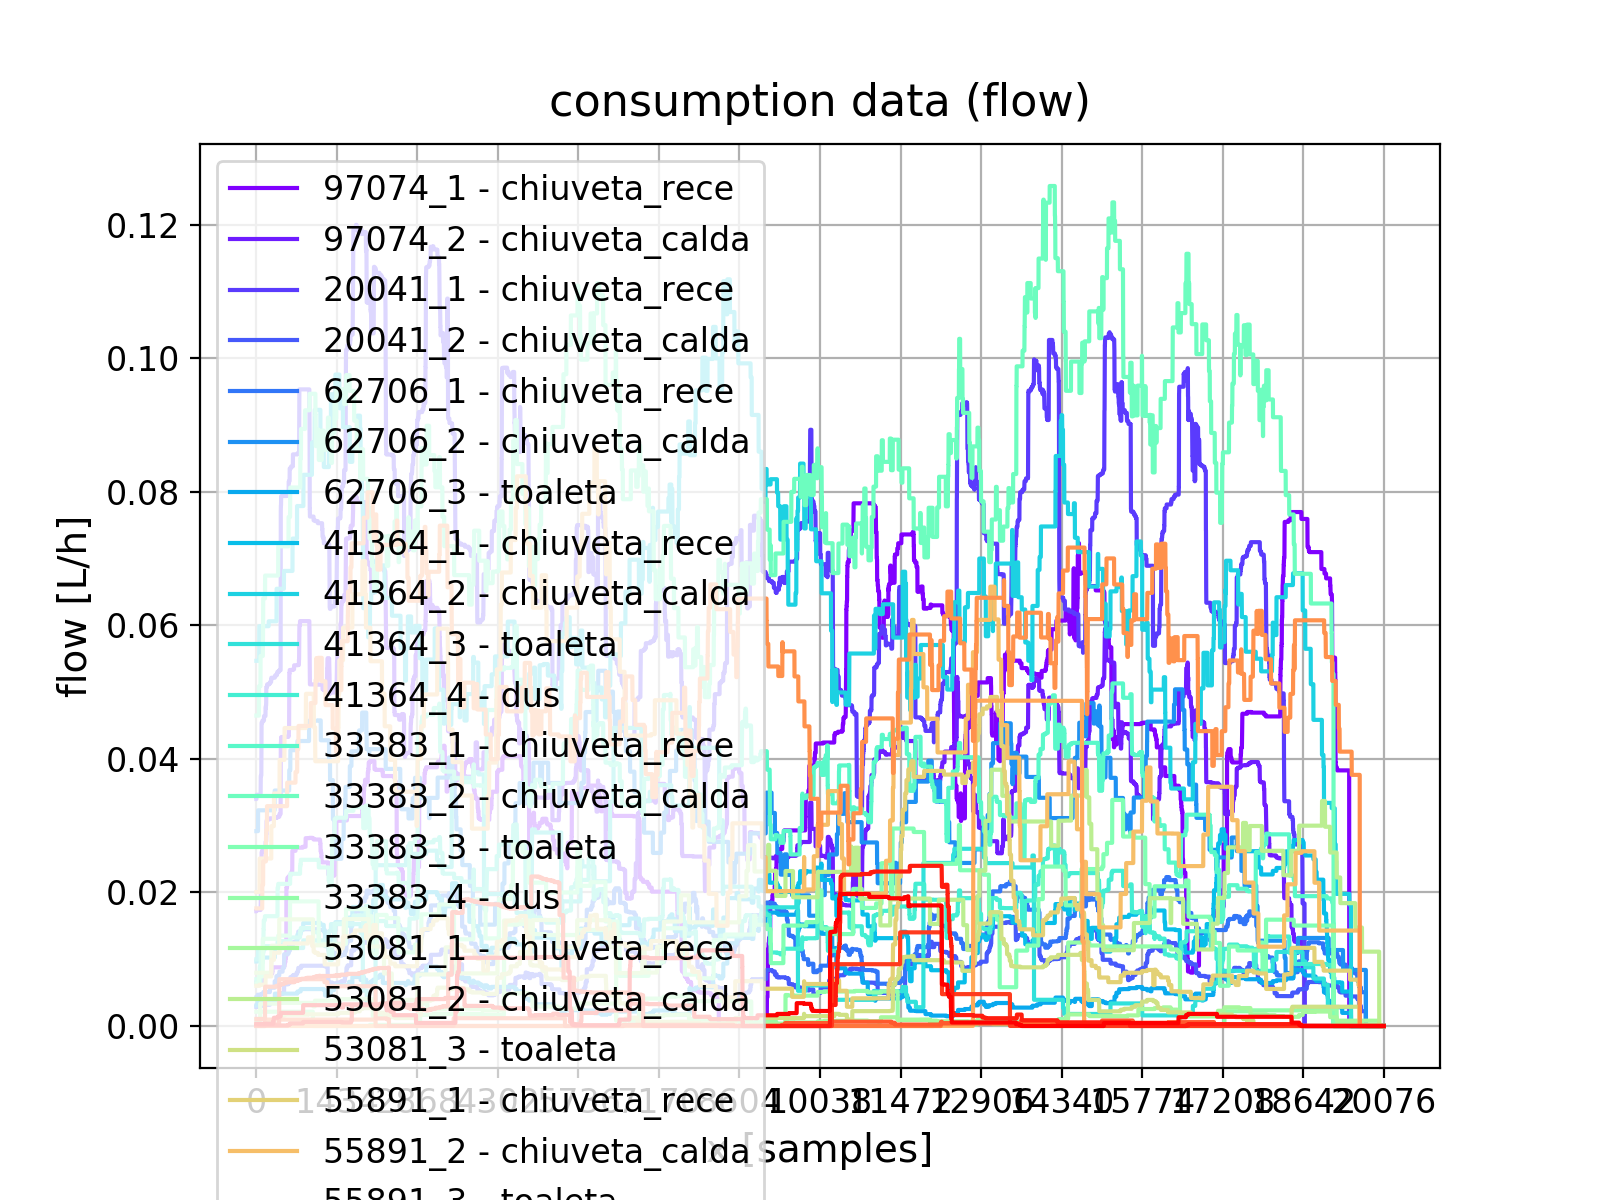
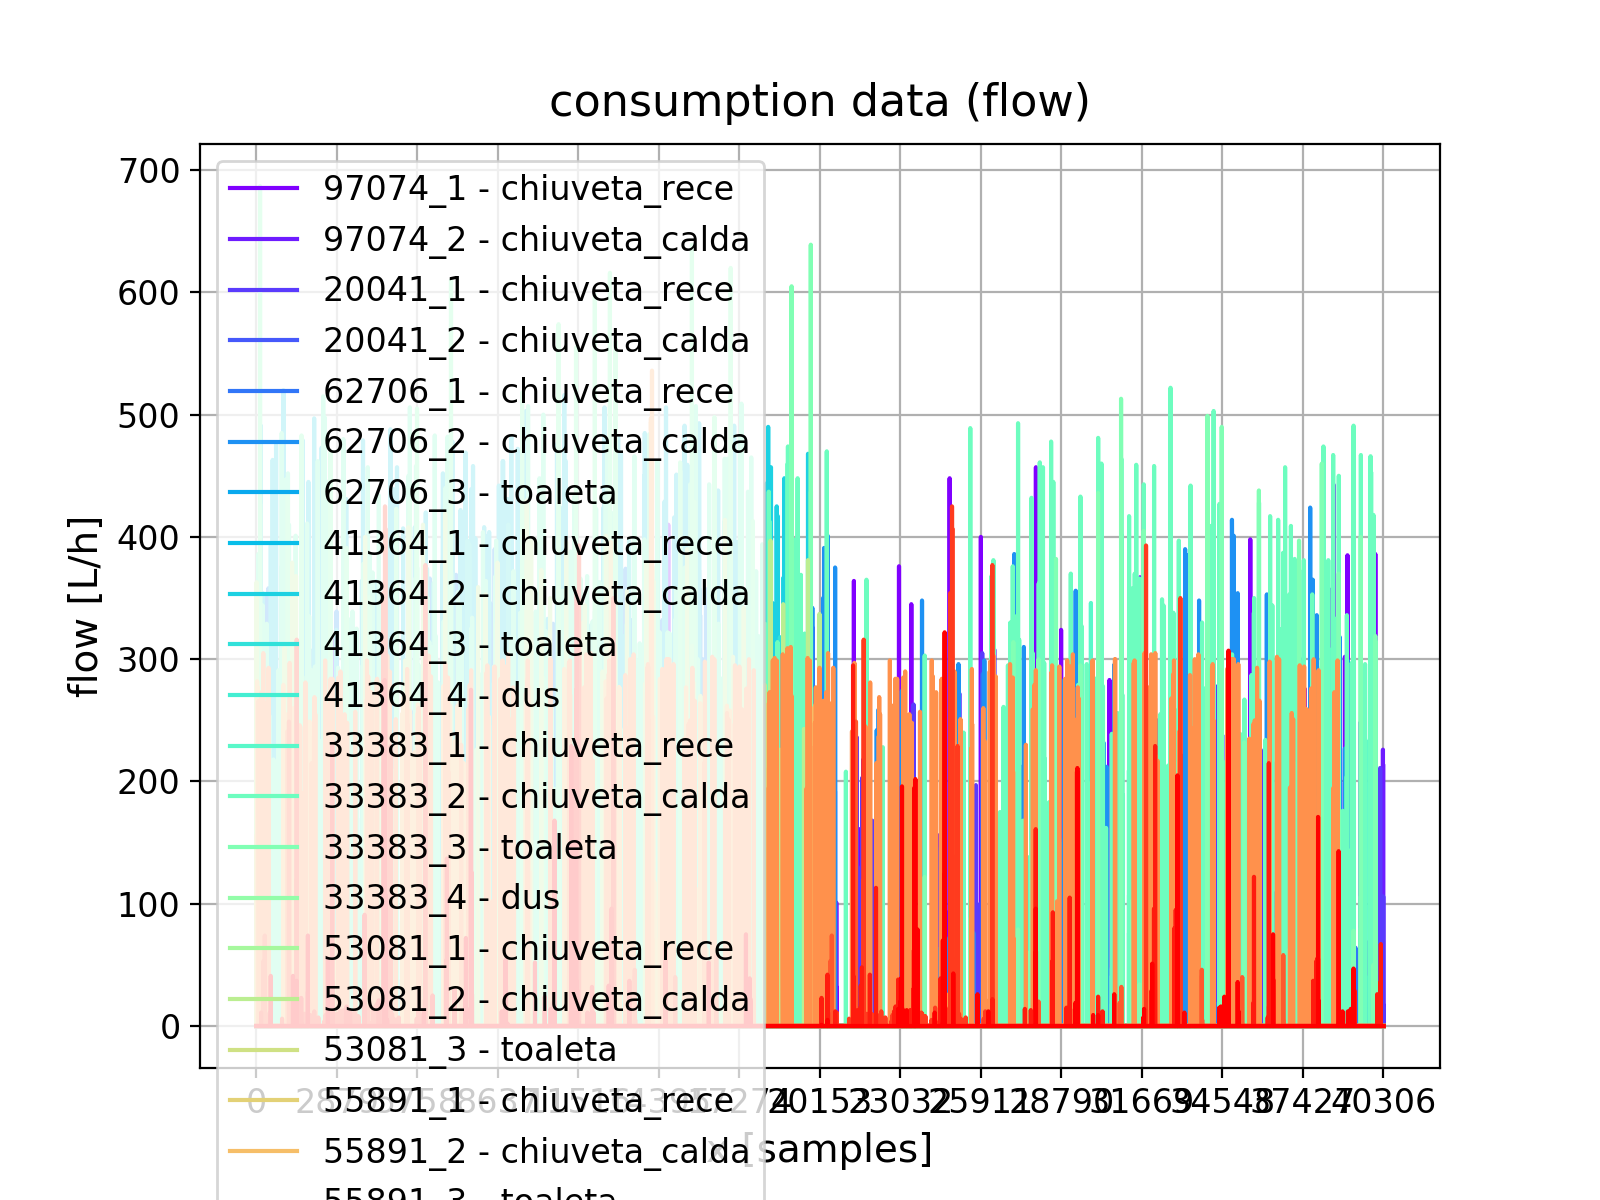
evaluate daily consumption events

diff --git a/clustering_wg/show_cluster_daily_events.py b/clustering_wg/show_cluster_daily_events.py
@@ -6,6 +6,7 @@ from modules import loader, graph
 from modules import clustering
 from modules import utils
 import numpy as np
+import statistics
 
 
 def run_clustering(x, nc, xheader, xlabels=None):
@@ -42,17 +43,8 @@ def run_clustering(x, nc, xheader, xlabels=None):
             x, nc, True)
         # X, kmeans, centroids, avg_dist, sum_dist, average_euclid_dist_mean = clustering.clustering_birch(x, nc, True)
 
-    # print(avg_dist)
-    # print(sum_dist)
-    # print(average_euclid_dist_mean)
-
     print("silhouette score: ", silhouette_score)
-
-    # quit()
-
-    # quit()
     xc = np.transpose(centroids)
-    # xc = np.transpose(xc)
 
     if xlabels is not None:
         xlabels = np.array(xlabels)
@@ -64,7 +56,7 @@ def run_clustering(x, nc, xheader, xlabels=None):
     return tss, nc
 
 
-nc = 3
+nc = 1
 
 root_data_folder = "./data"
 # read the data from the csv file
@@ -78,33 +70,39 @@ if rolling_filter:
 result_name += ".csv"
 
 plot_all_data = True
-# plot_all_data = False
+plot_all_data = False
 
 rolling_filter = True
 rolling_filter = False
 
-start_index = 1
+start_index = 0
 # end_index = 100
-end_index = None
+end_index = 20160  # 2 weeks in minutes
 start_col = 3
 end_col = None
 fill_start = False
+n_days = 14
 
 filter_labels = []
-filter_labels = ["toaleta", "chiuveta_rece", "chiuveta_calda", "dus"]
+# filter_labels = ["toaleta", "chiuveta_rece", "chiuveta_calda", "dus"]
 # filter_labels = ["toaleta"]
+filter_uid = ["41364_1", "41364_2", "41364_3", "41364_4"]
+# filter_uid = []
 
 x, header = loader.load_dataset(result_name)
-
 df = loader.load_dataset_pd(result_name)
 
 if len(filter_labels) > 0:
     boolean_series = df['label'].isin(filter_labels)
     df = df[boolean_series]
-    # df = df[df['label'] == filter_labels]
+if len(filter_uid) > 0:
+    boolean_series = df['uid'].isin(filter_uid)
+    df = df[boolean_series]
 
 x = df.to_numpy()
 print(x)
+
+# quit()
 
 nheader = len(header)
 
@@ -112,14 +110,11 @@ sx = np.shape(x)
 
 print(sx)
 
-# quit()
 print(nheader)
 header = []
 for d in range(sx[0]):
-    # header.append(str(d+1))
     header.append(x[d, 0] + " - " + x[d, 1])
 print(header)
-# quit()
 
 if fill_start:
     x = x[start_index:, :]
@@ -133,6 +128,16 @@ if end_col is not None:
     x = x[:, :end_col]
 
 
+for consumer in range(sx[0]):
+    stdev = statistics.stdev(x[:, consumer])
+    print("stdev ", consumer, " = ", stdev)
+# quit()
+
+x_split = np.split(x, n_days)
+
+# print(x_split)
+
+
 xlabel = "flow [L/h]"
 xtype = "flow"
 title = "consumption data (flow)"
@@ -142,59 +147,75 @@ print(sx)
 
 print("start")
 
-
 # time axis labels
 xlabels = [str(i) for i in range(sx[0])]
-# xlabels_disp = [str(i%1440) for i in range(sx[0])]
 xlabels_disp = xlabels
-# xlabels = [str(i) for i in range(len(timestamps))]
-# xlabels = timestamps
-# xlabels = [np.datetime64(ts) for ts in timestamps]
 
-# print(xlabels)
-# quit()
-# xlabels = [str(e) for e in list(range(nheader-3))]
-# xlabels = None
+# header days
+header = [str(i) for i in range(len(x_split))]
+header = xlabels
 
-# xlabels = np.array(xlabels)
-# xlabels = np.transpose(xlabels)
-# print(xlabels)
+x_consumer_average_vect = []
 
-if plot_all_data:
-    xplot = x
-    xlabels_disp = [xlabels_disp] * sx[1]
+# for day in range(n_days):
+for consumer in range(sx[1]):
+    x_consumer = []
+    for days in x_split:
+        print(np.shape(days))
+        x_consumer.append(days[:, consumer])
+    x_consumer = np.transpose(np.array(x_consumer))
+
+    print(x_consumer)
+
+    sx = np.shape(x_consumer)
+
+    if plot_all_data:
+        xplot = x_consumer
+        xlabels_disp = [xlabels_disp] * sx[1]
+        if xlabels_disp is not None:
+            xlabels_disp = np.array(xlabels_disp)
+            xlabels_disp = np.transpose(xlabels_disp)
+        tss = utils.create_timeseries(xplot, header, xlabels_disp)
+        fig = graph.plot_timeseries_multi_sub2(
+            [tss], [title], "x [samples]", [xlabel], (8, 6), 14, None, None, True, 0)
+        result_name = "./figs/consumer_data"
+        graph.save_figure(fig, result_name, 200)
+
+    xlabels_disp = xlabels
+    # cluster labels
+    xheader = ["c" + str(i+1) for i in range(sx[1])]
+
     if xlabels_disp is not None:
-        xlabels_disp = np.array(xlabels_disp)
-        xlabels_disp = np.transpose(xlabels_disp)
-    tss = utils.create_timeseries(xplot, header, xlabels_disp)
-    fig = graph.plot_timeseries_multi_sub2(
-        [tss], [title], "x [samples]", [xlabel], (8, 6), 14, None, None, True, 0)
-    result_name = "./figs/consumer_data"
-    graph.save_figure(fig, result_name, 200)
+        if nc is None:
+            xlabels_disp = [xlabels_disp] * 1000
+        else:
+            xlabels_disp = [xlabels_disp] * nc
 
-xlabels_disp = xlabels
-# cluster labels
-xheader = ["c" + str(i+1) for i in range(sx[1])]
+    x_consumer_input = np.transpose(x_consumer)
 
-if xlabels_disp is not None:
-    if nc is None:
-        xlabels_disp = [xlabels_disp] * 1000
+    if nc == 1:
+        # average rows
+        x_consumer_average = x_consumer_input.mean(axis=0)
+        x_consumer_average_vect.append(x_consumer_average)
     else:
-        xlabels_disp = [xlabels_disp] * nc
+        tss, nc = run_clustering(x_consumer_input, nc, xheader, xlabels_disp)
+        # plot cluster centroids
+        title = "consumer patterns (" + str(nc) + "c)"
+        ylabel = "y [L/h]"
+        fig = graph.plot_timeseries_multi_sub2(
+            [tss], [title], "x [samples]", [ylabel], (8, 6), 10, None, None, True, 1)
 
-x = np.transpose(x)
+        # result_name = "./figs/consumer_patterns_day_" + str(nc) + "c"
+        # graph.save_figure(fig, result_name, 200)
 
-tss, nc = run_clustering(x, nc, xheader, xlabels_disp)
-
-# plot cluster centroids
-title = "consumer patterns (" + str(nc) + "c)"
-
-ylabel = "y [L/h]"
-
+print(x_consumer_average_vect)
+header = ["chiuveta_rece", "chiuveta_calda", "toaleta", "dus"]
+x_consumer_average_vect = np.array(x_consumer_average_vect)
+x_consumer_average_vect = np.transpose(x_consumer_average_vect)
+datax = [str(h) for h in list(range(0, 24*60))]
+tss = utils.create_timeseries(x_consumer_average_vect, header, None, None)
 fig = graph.plot_timeseries_multi_sub2(
-    [tss], [title], "x [samples]", [ylabel], (8, 6), 7, None, None, True, 1)
-
-result_name = "./figs/consumer_patterns_" + str(nc) + "c"
-
+    [tss], ["Daily consumption events"], "x [time of day]", [xlabel], (8, 6), 60, None, None, True, 0)
+result_name = "./figs/consumer_patterns_day_" + str(nc) + "c"
 graph.save_figure(fig, result_name, 200)
-
+# graph.plot(x_consumer_average, None, "consumer average", "x", "y", True)

diff --git a/clustering_wg/process_events.py b/clustering_wg/process_events.py
@@ -7,6 +7,7 @@ from modules import clustering
 from modules import utils
 import numpy as np
 import matplotlib.pyplot as plt
+import statistics
 
 
 root_data_folder = "./data"
@@ -58,10 +59,14 @@ filter_labels = []
 # filter_labels = ["chiuveta_rece"]
 # filter_labels = ["chiuveta_calda"]
 # filter_labels = ["dus"]
-filter_labels = ["toaleta"]
+# filter_labels = ["toaleta"]
 # filter_labels = ["masina_spalat"]
 # filter_labels = ["masina_spalat_vase"]
 
+filter_uid = ["41364_1", "41364_2", "41364_3", "41364_4"]
+
+x, header = loader.load_dataset(result_name)
+df = loader.load_dataset_pd(result_name)
 
 
 if len(filter_labels) > 0:
@@ -71,11 +76,23 @@ if len(filter_labels) > 0:
     df = df[df["volume"] >= 1]
     df = df[df["duration"] < 10]
     # df = df[df['label'] == filter_labels]
+if len(filter_uid) > 0:
+    boolean_series = df['uid'].isin(filter_uid)
+    df = df[boolean_series]
 
 print(df)
 x = df.to_numpy()
 x = x[start_index:, start_col:]
 
+sx = np.shape(x)
+
+for filter_uid_1 in filter_uid:
+    boolean_series = df['uid'].isin([filter_uid_1])
+    df1 = df[boolean_series]
+    stdev = statistics.stdev(df1["volume"] * df1["duration"])
+    print("stdev ", filter_uid_1, " = ", stdev)
+
+# quit()
 # x = x[:,:1]
 
 print(x)

diff --git a/clustering_wg/modules/utils.py b/clustering_wg/modules/utils.py
@@ -47,7 +47,7 @@ def reorder2d(x, order):
     return np.array(x_ord)
 
 
-def create_timeseries(data, header, datax=None):
+def create_timeseries(data, header, datax=None, datax2=None):
     tss: List[Timeseries] = []
     # colors = ['blue', 'red', 'green', 'orange']
     # colors = ['Red', 'Orange', 'Yellow', 'Green', 'Blue', 'Indigo']
@@ -74,8 +74,10 @@ def create_timeseries(data, header, datax=None):
             ck = 0
 
         for i in range(rows):
-            if datax is not None:
-                ts.x.append(datax[i][j])
+            if datax is not None:               
+                ts.x.append(datax[i][j])             
+            elif datax2 is not None:
+                ts.x.append(datax2[i])    
             else:
                 ts.x.append(i)
             ts.y.append(data[i][j])
